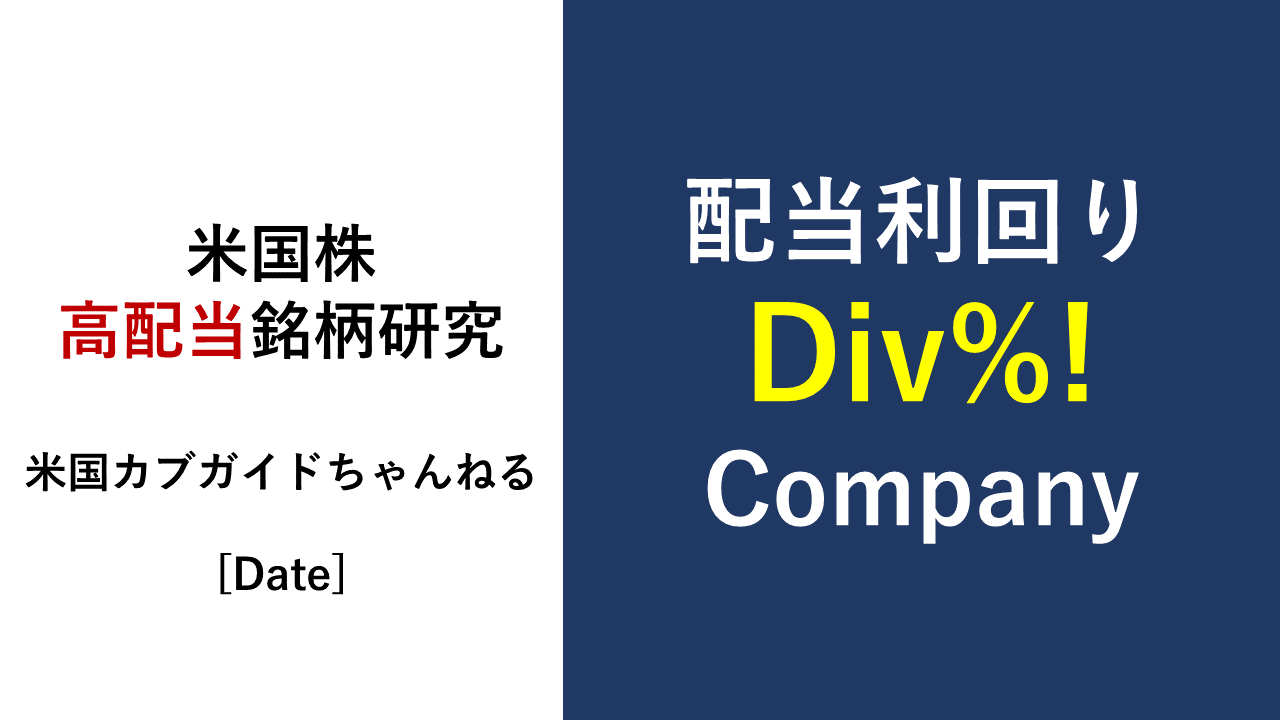
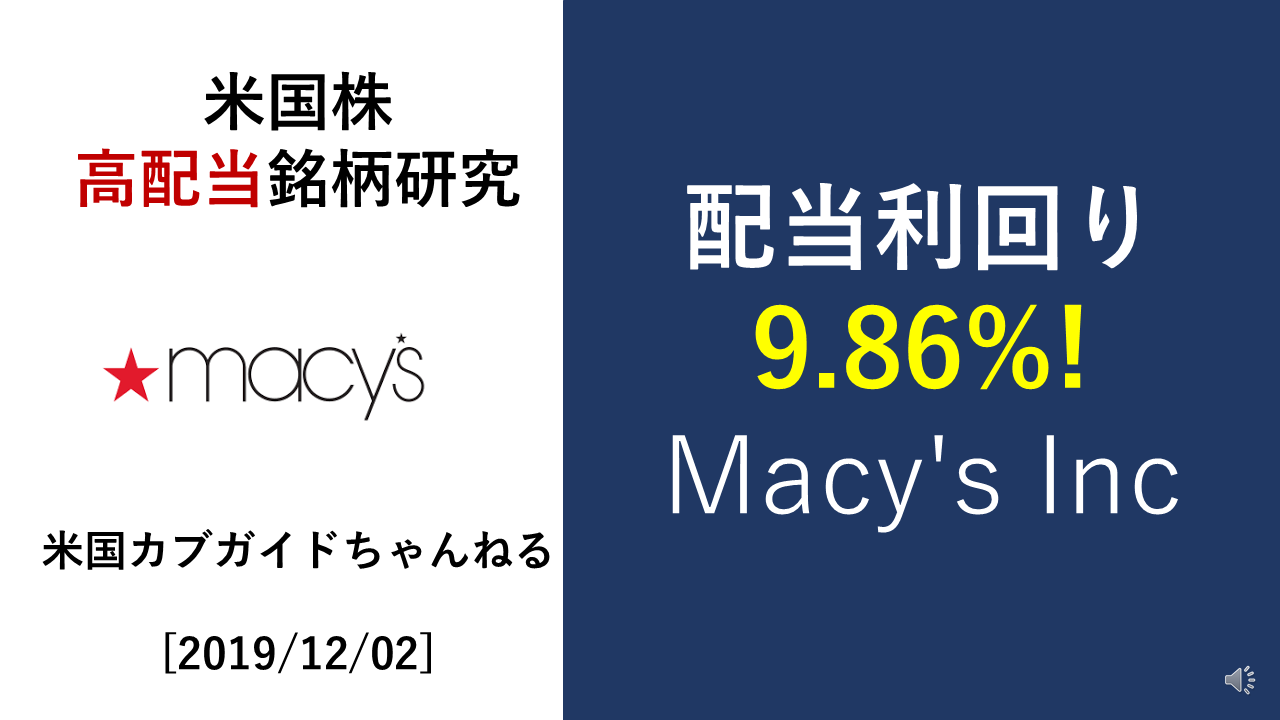
kj

diff --git a/docs/.vuepress/config.js b/docs/.vuepress/config.js
@@ -51,7 +51,7 @@ module.exports = {
     }],
     ['meta', {
       name: "og:site_name",
-      content: "CodeRecipe"
+      content: "米国株ガイド"
     }],
     ['meta', {
       name: "twitter:image",

diff --git a/a.py b/a.py
@@ -29,6 +29,8 @@ def pptx(a):
                     paragraph.text=a["company"]
                 elif paragraph.text=='%Annual Dividend Yield':
                     paragraph.text=a["Forward_Annual_Dividend_Yield_4"]
+                elif paragraph.text=='desc':
+                    paragraph.text=a["disc"]
             for paragraph in shape.text_frame.paragraphs:
                 print(paragraph.text)
     for slide in prs.slides:

diff --git a/template/post.md b/template/post.md
@@ -7,6 +7,9 @@ rakuten: true
 sbi: true
 manex: true
 image: /img/{{date}}.png
+meta:
+- og:title: '配当利回り{{a.Forward_Annual_Dividend_Yield_4}}!{{a.company}}の銘柄分析'
+- og:image: '/img/{{date}}.png'
 ---
 この記事は、{{date}}現在の情報を元に記事を作成しています。
 
